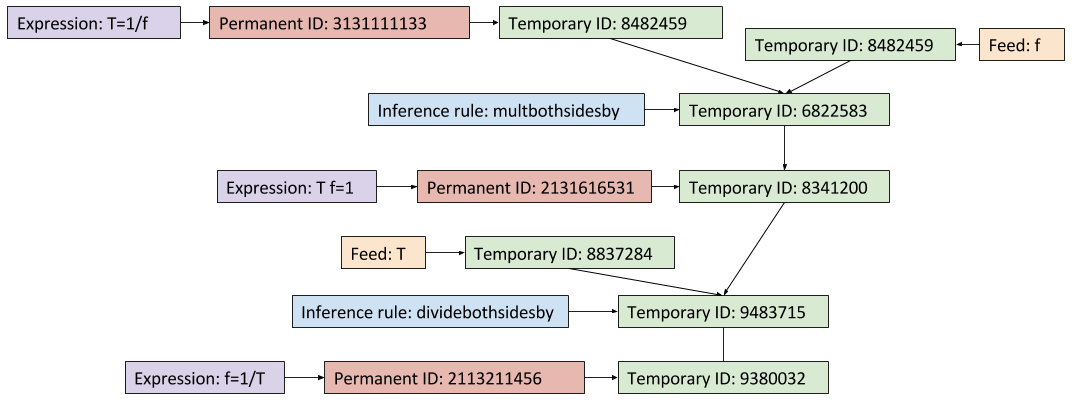
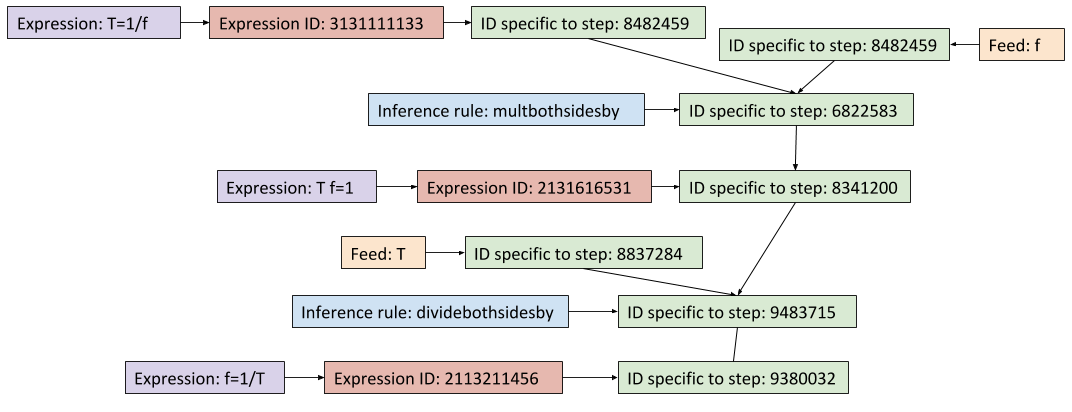
updated naming convention

diff --git a/site/how_to_build_the_physics_derivation.html b/site/how_to_build_the_physics_derivation.html
@@ -92,9 +92,9 @@ dividebothsidesby,"f=1/T"
 </pre>
 In this description, the edge pairs are ordered by source and destination. 
 
-<P>At this point we have enough to generate a graph, ie using GraphViz. However, the objective is to support more complex derivations, and also to link multiple derivations. At that scale, the inference rule "multbothsidesby" may appear in multiple steps. We don't want the graph to render multiple uses of the same inference rule as the same node. We do want multiple references to the same expression to be a single node. An index which has a scope limited to the local derivation step is needed. This leads to the notion of a "temporary index" for each inference rule. The temporary index for the inference rule is a unique identifier within a derivation step.</P>
+<P>At this point we have enough to generate a graph, ie using GraphViz. However, the objective is to support more complex derivations, and also to link multiple derivations. At that scale, the inference rule "multbothsidesby" may appear in multiple steps. We don't want the graph to render multiple uses of the same inference rule as the same node. We do want multiple references to the same expression to be a single node. An index which has a scope limited to the local derivation step is needed. This leads to the notion of a unique numeric index local to each inference rule. The local index for the inference rule is a unique identifier within a derivation step.</P>
 
-<P>Another complication arises regarding the expression. In the above example, I use a human readable expression, i.e. <i>T=1/f</i>. The usefulness of this format depends on what is reading the expression. Multiple readers of the expression can be expected: humans, LaTeX, and Computer Algebra Systems (i.e. Mathematica, Sympy). This leads to the need for a unique identifier which is associated with the expression  independent of the representation. In Logic, this unique identifier is referred to as the Godel number. (Similarly, the "feeds" (here <i>f</i> and <i>T</i> need unique identifiers.)<P>
+<P>Another complication arises regarding the expression. In the above example, I use a human readable expression, i.e. <i>T=1/f</i>. The usefulness of this format depends on what is reading the expression. Multiple readers of the expression can be expected: humans, LaTeX, and Computer Algebra Systems (i.e. Mathematica, Sympy). This leads to the need for a unique identifier which is associated with the expression  independent of the representation. In <a href="https://en.wikipedia.org/wiki/Logic">Logic</a>, this unique identifier is referred to as the <a href="https://en.wikipedia.org/wiki/G%C3%B6del_numbering">Godel number</a>. (Similarly, the "feeds" (here <i>f</i> and <i>T</i> need unique identifiers.)<P>
 
 <P>To summarize the above points,
 <UL>
@@ -114,13 +114,13 @@ In this description, the edge pairs are ordered by source and destination.
 <img src="pictures/simple_example_expanded_T1f.png" width="900">
 </center>
 
-<P>The expression permanent index is the same across all derivations, whereas the temporary index is scoped to just the derivation step.<BR>
-Similarly, the inference rule temporary index is specific to the derivation step.</p>
+<P>The expression index is the same across all derivations, whereas the local index is scoped to just the derivation step.<BR>
+Similarly, the inference rule index is specific to the derivation step.</p>
 
-<P>The inference rule needs the temporary index to build the graph.<BR>
-The expression needs a temporary index to build the Latex PDF. </P>
+<P>The inference rule needs the local index to build the graph.<BR>
+The expression needs a local index to build the Latex PDF. </P>
 
-<P>The core of the Physics Derivation Graph is an edge list of temporary IDs that are local to each step:
+<P>The core of the Physics Derivation Graph is an edge list of local IDs that are specific to each step:
 <pre>
 $ cat derivation_edge_list.csv
 9103516,8482459
@@ -176,7 +176,7 @@ neato -Tpng body_of_graph.dot &gt; out.png
 </center>
 </P>
 
-<p>However, that's not yet the pretty picture of the graph we want. We need to replace the Godel numbers (permanent IDs) with pictures for expressions. Also need to collapse temporary IDs.</P>
+<p>However, that's not yet the pretty picture of the graph we want. We need to replace the Godel numbers (expression IDs) with pictures for expressions. Also need to collapse local IDs.</P>
 
 
 $ cat expression_identifiers.csv | sed 's/\([0-9]\{10\}\)/[shape=ellipse, color=red,image=\"..\/..\/expressions\/\1/'
